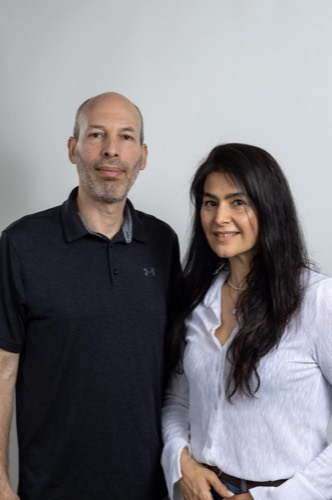
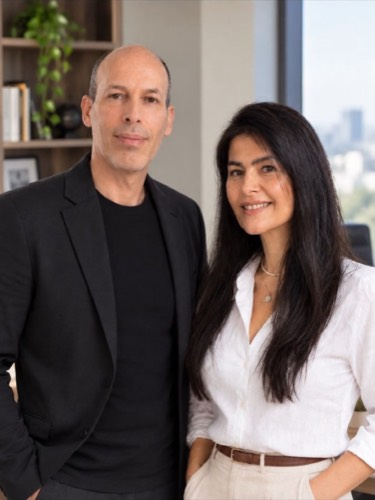
Replace the owners' portrait with the new studio photo
New photo supplied by the owner: an office setting rather than the plain grey
backdrop, which sits far better against the light blue section behind it.

The source arrived letterboxed — 923x2000 with black bars top and bottom. The
bars were measured rather than guessed, by decoding the image to a bitmap and
scanning each row for the first and last with real content: rows 19.25% to
80.75%, symmetric, so a centred crop removes exactly the padding. The result
is 923x1230, which is precisely 3:4 — the same ratio as the frame — so
object-fit now has nothing to crop and the whole photo is visible. The
object-position nudge that framed the old photo is therefore dropped.

Also corrects the srcset descriptors. They read 500w and 900w, which were the
files' heights; the descriptor is a width, and the real widths were 333 and
599. The browser was sizing its choice against numbers roughly half again too
large. They now match the files: 375w and 675w, with the width attribute
corrected from 599 to 675 so the reserved space still matches and nothing
shifts as the image loads.

diff --git a/index.html b/index.html
@@ -1086,7 +1086,7 @@
       height: auto;
       aspect-ratio: 3 / 4;
       object-fit: cover;
-      object-position: center 22%;
+      object-position: center;
       border-radius: var(--radius);
       box-shadow: 0 22px 45px rgba(30, 64, 175, 0.18);
       display: block;
@@ -1902,9 +1902,9 @@
 <figure class="about-portrait fade-in fade-left">
 <div class="portrait-frame">
 <img src="assets/eyal-alice.jpg"
-     srcset="assets/eyal-alice-small.jpg 500w, assets/eyal-alice.jpg 900w"
+     srcset="assets/eyal-alice-small.jpg 375w, assets/eyal-alice.jpg 675w"
      sizes="(max-width: 900px) 90vw, 380px"
-     width="599" height="900" loading="lazy" decoding="async"
+     width="675" height="900" loading="lazy" decoding="async"
      alt="אייל ואליס נוב, בעלי הסוכנות"/>
 </div>
 <figcaption class="about-caption">
